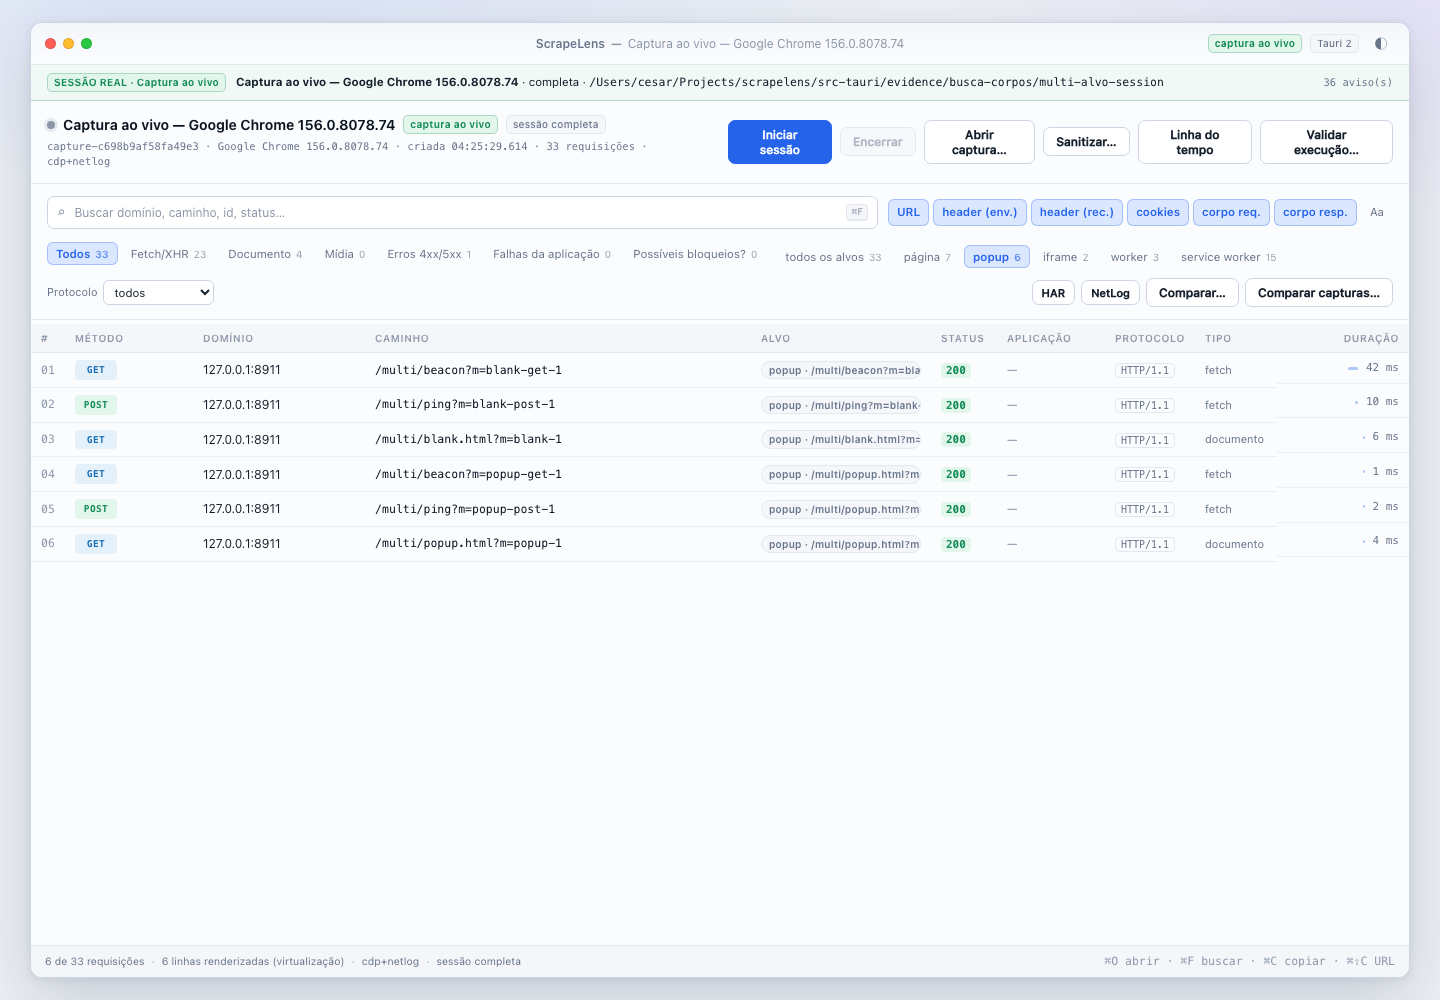
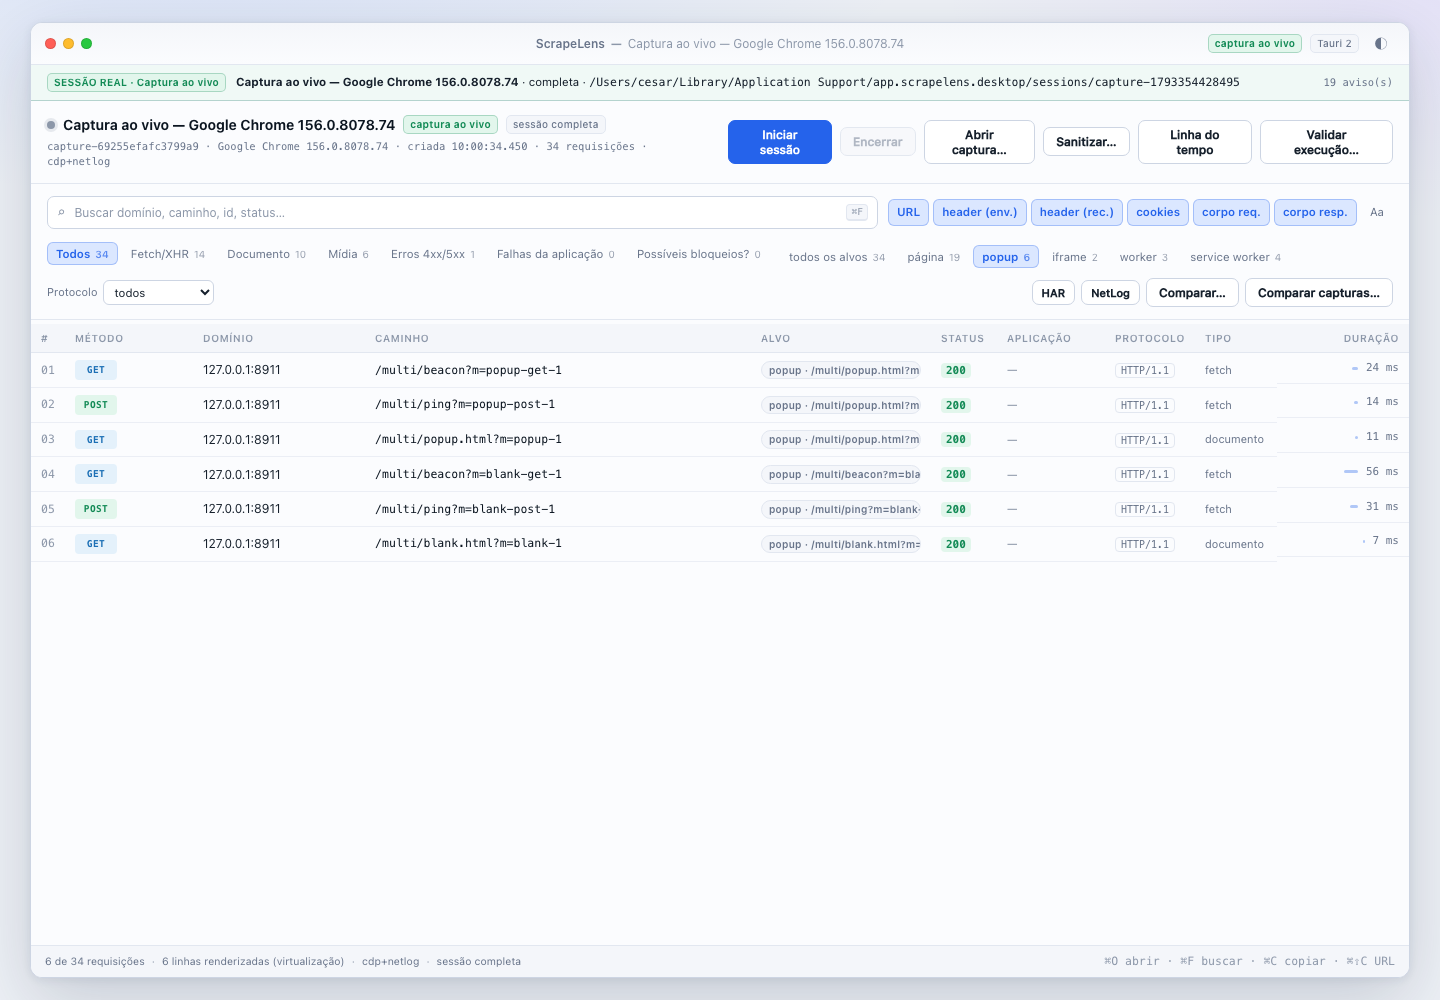
build(app): final bundle at HEAD b70aa64 (round 10 multi-target)
Records the SHA-256 after codesign and updates screenshots 42/44/47 of the live /multi/ capture (single SW, ambiguous, no false 'attached'; old session without Target).

diff --git a/src-tauri/EMPACOTAMENTO.md b/src-tauri/EMPACOTAMENTO.md
@@ -9,12 +9,12 @@ mesmas condições.
 | Item | Valor |
 |---|---|
 | Repositório | `/Users/cesar/Projects/scrapelens` |
-| Commit do app no momento do build | `881fa0d` (HEAD de origem; `test(aceite): duplicata de service worker contada por targetId`) |
+| Commit do app no momento do build | `8cfe828` (HEAD de origem; `fix(capture): primeira sessão primária sem drop CDP no timeout`) |
 | Commits de exportação incluídos | `eaf5471` (shell Tauri), `0a6e696` (UI), `0446f18`/`12457cd` (formatação), `3a3c676` (ajuste da prévia) |
 | Contrato da rodada | `4c97bc9` (`docs/07-exportacao-ui.md`); multi-alvo `docs/14-captura-multi-alvo.md` + UI `9a06463` |
-| Core | path `scrapelens-core`; inclui `df421cf` (alvo/sessionId, Capture.targetSetupTimeout) |
-| Data do build | 2026-10-30 ~03:05 (UTC−03) |
-| Working tree | limpo no build (src-tauri/app/core commitados em `881fa0d`); evidência `46-multi-alvo-bundle.png` commitada à parte |
+| Core | path `scrapelens-core`; inclui `df421cf`/`7892303` (alvo sem sessionId, `cdp.target_setup_timeout`, link SW ambíguo) |
+| Data do build | 2026-10-30 ~06:38 (UTC−03) |
+| Working tree | limpo no build em `8cfe828`; prints 42/44/45/47 atualizados após captura ao vivo |
 
 Não há sidecar, processo auxiliar nem runtime Node/Python no produto.
 
@@ -26,7 +26,7 @@ cd app && npm install                     # uma vez
 cd ../app && npx tsc --noEmit             # typecheck do frontend — sem saída
 cd ../app && npm run build                # bundle Vite — 516 kB (gzip 102 kB)
 cd ../core && cargo test                  # 55 passam, 1 ignorado
-cd ../src-tauri && cargo test             # 48 passam, 8 ignorados; 0 falhas
+cd ../src-tauri && cargo test             # 49 passam, 8 ignorados; 0 falhas
 cd ../src-tauri && cargo clippy --all-targets
 cd .. && ./app/node_modules/.bin/tauri build --bundles app
 
@@ -46,15 +46,15 @@ Ferramentas usadas: rustc 1.98.1, Node 26.8.1, macOS 26.5.2 (arm64).
 | Bundle | `src-tauri/target/release/bundle/macos/ScrapeLens.app` |
 | Executável | `ScrapeLens.app/Contents/MacOS/scrapelens` |
 | Arquitetura | `Mach-O 64-bit executable arm64`, thin (sem universal binary) |
-| Tamanho do bundle | 16.868 KiB (~16,5 MiB, `du -sk`) |
-| Tamanho do executável | 16.516.976 bytes |
[1 lines of base64/hex data omitted]
+| Tamanho do bundle | 16.856 KiB (~16,5 MiB, `du -sk`) |
+| Tamanho do executável | 16.502.896 bytes |
[1 lines of base64/hex data omitted]
 | Identificador | `app.scrapelens.desktop` |
 | Assinatura | ad-hoc (`flags=0x2(adhoc)`, `TeamIdentifier=not set`) |
 | `codesign --verify --deep --strict` | exit 0 (valid on disk, satisfaz o Designated Requirement) |
 | `spctl -a` | rejeitado — esperado: sem Developer ID e sem notarização |
 
-Rodada 10 (HEAD de origem 881fa0d, 2026-10-30; bundle com captura multi-alvo d60c1ae+, UI Alvo `9a06463`, aceite das Testes; captura ao vivo `/multi/` pelo `.app` com coluna Alvo e filtro de alvos; evidência `evidence/busca-corpos/46-multi-alvo-bundle.png`; hash anterior `d1136cbb…`). Antes: rodada 9, onda B, 3ª vez (HEAD de origem 7410fa4, 2026-10-29; bundle com `plan.parameters` isento só com plano verificado — versão atual, hash e alvo conferidos; correção só de core, traces e tela sem mudança; hash anterior `a4fe000a…`). Antes: rodada 9, onda B, 2ª vez (HEAD de origem 39410bf, 2026-10-29; bundle recompilado com a isenção de `parameters` restrita ao par (name, part) do plano — correção só de core, traces e tela sem mudança; hash anterior `860c2008…`). Antes: rodada 9, onda B (HEAD de origem 31bcaa9, 2026-10-29; plan.version 2 no trace, traces ok/403/incompleta regenerados contra o detran-sim e validação sem avisos espúrios na trace fiel; inclui o cleanup_on_start de 4a81cb0 e o plan.parameters de d83d620; hash anterior `bdce5796…`). Antes: rodada 9, 3ª vez (HEAD de origem a37cd60, 2026-10-29; temporária do trace com guardar/descartar, limite de 64 MiB, vereditos novos do validate com plan.hash do core; hash anterior `0b49ba0c…`). Antes: rodada 9, 2ª vez (HEAD de origem 2a5c533, 2026-10-29; validate com adaptador e classe "parâmetro do usuário"; hash anterior `48e1ab6d…`). Antes: rodada 9 (HEAD de origem 744df02, 2026-10-29; linha do tempo, "Validar execução…" com import-trace em pasta nova e validate; hash anterior `bda06a2d…`). Antes: build final que encerra a rodada 8 (HEAD de origem dc14ac3, 2026-10-29; estrito como padrão nas partes do adaptador; opção avançada "partes tolerantes" (`lenient_parts`) no script de priming, desligada por padrão; hash anterior `0eb5632a…`). Antes: build final da rodada 8, 2ª vez (HEAD de origem c07b514, 2026-10-29; inclui b4511fb e c07b514 da Captura; hash anterior `bee5f6d6…`). Antes: build final da rodada 8 (HEAD de origem 5d2c6e6, 2026-10-29; inclui 391db16, 5d2c6e6 da Captura, 3ba9486 do Core e o corte de partes da visão do adaptador; hash anterior `53009655…`). Antes: rebuild final da rodada 8 (HEAD de origem b0ce0f0, 2026-10-29; inclui limites da gramática da Captura, core c61d407 e o limite por campo da visão do adaptador; hash anterior `9aec2199…`). Antes: rebuild da rodada 8 (HEAD de origem aab8559, 2026-10-29; adaptador `natural-ajax` por dependência de path em origins/chain/compare/priming, visão estruturada e aba "Script de priming"; hash anterior `6e301e70…`). Antes: rebuild final (HEAD de origem 4b16b0e, 2026-10-29; inclui cf015b2 initiator do CDP e 6a85676 detectores do priming; hash anterior `1a097cd0…`). Antes: rebuild 7e (leitura de `assess-rules.json` só como arquivo regular sem symlink, até 256 KiB, erro de parse sem eco; hash anterior `56514c8b…`). Antes: rebuild 7d (avisos de `AssessRules::warnings()` devolvidos por `assess_session` e mostrados na lista e na aba Aplicação; hash anterior `0dba0476…`). Antes: rebuild 7c (filtros separados "Falhas da aplicação" = app-error e "Possíveis bloqueios?" = blocked?, combináveis; hash anterior `aa066f1a…`). Antes: rebuild 7b-2 (`counts` do assess com `VerdictKind::count_key()`, chaves kebab-case iguais ao `verdictKind`; hash anterior `83d67718…`). Antes: rebuild do ajuste 7b (verdict `not-assessed` neutro; hash anterior `0f6d04bf…`). Antes: rebuild da onda 7b (comando `assess_session`, coluna/filtro/aba "Aplicação", veredito na cadeia e no compare; hash anterior `4f7ca2aa…`). Antes: rebuild com frames auxiliares e iniciador (hash anterior `1697321d…`). Antes: rebuild da onda 6b (controle HTML, contexto estático, páginas de contexto, avisos de HAR sem cookies, compare por rodadas com opções, sanitização de negócio; hash anterior `f777988f…`). Antes: rebuild da dica de reordenação ligada a `SessionComparison.reordered` (hash anterior `21824159…`). Antes: rebuild do ajuste de layout do compare (chips quebram linha; dica de reordenação opcional); hash anterior `ac7213b2…`. Antes: rebuild com os rótulos do core (possível origem) e fixtures regeneradas; hash anterior `31ec27c3…`. Antes: rebuild das correções da revisão da rodada 5 (possível origem, confiança por passo, comparação paginada, caminhos canônicos, partsCounts; hash anterior `c1783a57…`). Antes: rebuild da onda 5b (aba Origem, cadeia de priming, comparação A × B, exportação com origens anotadas; hash anterior `2f08150d…`). Antes: rebuild do acabamento da rodada 4 (legenda de realce só quando há tracejado, nota discreta para `chrome-decoded`, aviso para `charset:*`/`lossy-postData`); hash anterior `0e2754f4…`. Antes: rebuild com busca preguiçosa do core (LazySession + search_lazy), realce sólido/tracejado e texto da fixture sintética; hash anterior `f9c0acec…`. Antes: rebuild das correções da revisão 4b (rótulos de origem, realce pelo intervalo do core, cache do bundle de busca, recusa de symlink em anexos, `transformed`; hash anterior `56ee754b…`). Antes: rebuild da onda 4b (busca no payload e painel de corpos: commands `search_session` e `read_body`, UI; 28+2 ignorados em src-tauri, 16/16 em tests/exportacao, `npm run test:adapter` ok; evidência em `evidence/busca-corpos/`). Hash anterior `9c04b98b…` substituído. Histórico: rebuild de 0d4dbab (`fix(app)`: adapter tolera campos omitidos que o core aceita via serde default; teste `npm run test:adapter` com a fixture mínima; 15+1 ignorado Tauri, 16/16 regressões tests/exportacao). Hash anterior `5934556c…` (16015a1) substituído. Antes: rebuild com validação de todos os ancestrais do destino (F1/F2): o hash acima é deste build. O SHA-256 é do executável **após** o re-sign ad-hoc. Um `tauri build` limpo
+Rodada 10 final (HEAD de origem 8cfe828, 2026-10-30; Captura 1716d39–8cfe828 + Core df421cf/7892303; SW sem cópias na lista, sw-intercept ligado como ambígua, Limites sem “não anexou” falso; sessão antiga sem sessionId sem coluna Alvo; prints 42/44/47; hash anterior `77cf7355…`). Antes: rodada 10 (HEAD de origem 881fa0d, 2026-10-30; bundle com captura multi-alvo d60c1ae+, UI Alvo `9a06463`, aceite das Testes; captura ao vivo `/multi/` pelo `.app` com coluna Alvo e filtro de alvos; evidência `evidence/busca-corpos/46-multi-alvo-bundle.png`; hash anterior `d1136cbb…`). Antes: rodada 9, onda B, 3ª vez (HEAD de origem 7410fa4, 2026-10-29; bundle com `plan.parameters` isento só com plano verificado — versão atual, hash e alvo conferidos; correção só de core, traces e tela sem mudança; hash anterior `a4fe000a…`). Antes: rodada 9, onda B, 2ª vez (HEAD de origem 39410bf, 2026-10-29; bundle recompilado com a isenção de `parameters` restrita ao par (name, part) do plano — correção só de core, traces e tela sem mudança; hash anterior `860c2008…`). Antes: rodada 9, onda B (HEAD de origem 31bcaa9, 2026-10-29; plan.version 2 no trace, traces ok/403/incompleta regenerados contra o detran-sim e validação sem avisos espúrios na trace fiel; inclui o cleanup_on_start de 4a81cb0 e o plan.parameters de d83d620; hash anterior `bdce5796…`). Antes: rodada 9, 3ª vez (HEAD de origem a37cd60, 2026-10-29; temporária do trace com guardar/descartar, limite de 64 MiB, vereditos novos do validate com plan.hash do core; hash anterior `0b49ba0c…`). Antes: rodada 9, 2ª vez (HEAD de origem 2a5c533, 2026-10-29; validate com adaptador e classe "parâmetro do usuário"; hash anterior `48e1ab6d…`). Antes: rodada 9 (HEAD de origem 744df02, 2026-10-29; linha do tempo, "Validar execução…" com import-trace em pasta nova e validate; hash anterior `bda06a2d…`). Antes: build final que encerra a rodada 8 (HEAD de origem dc14ac3, 2026-10-29; estrito como padrão nas partes do adaptador; opção avançada "partes tolerantes" (`lenient_parts`) no script de priming, desligada por padrão; hash anterior `0eb5632a…`). Antes: build final da rodada 8, 2ª vez (HEAD de origem c07b514, 2026-10-29; inclui b4511fb e c07b514 da Captura; hash anterior `bee5f6d6…`). Antes: build final da rodada 8 (HEAD de origem 5d2c6e6, 2026-10-29; inclui 391db16, 5d2c6e6 da Captura, 3ba9486 do Core e o corte de partes da visão do adaptador; hash anterior `53009655…`). Antes: rebuild final da rodada 8 (HEAD de origem b0ce0f0, 2026-10-29; inclui limites da gramática da Captura, core c61d407 e o limite por campo da visão do adaptador; hash anterior `9aec2199…`). Antes: rebuild da rodada 8 (HEAD de origem aab8559, 2026-10-29; adaptador `natural-ajax` por dependência de path em origins/chain/compare/priming, visão estruturada e aba "Script de priming"; hash anterior `6e301e70…`). Antes: rebuild final (HEAD de origem 4b16b0e, 2026-10-29; inclui cf015b2 initiator do CDP e 6a85676 detectores do priming; hash anterior `1a097cd0…`). Antes: rebuild 7e (leitura de `assess-rules.json` só como arquivo regular sem symlink, até 256 KiB, erro de parse sem eco; hash anterior `56514c8b…`). Antes: rebuild 7d (avisos de `AssessRules::warnings()` devolvidos por `assess_session` e mostrados na lista e na aba Aplicação; hash anterior `0dba0476…`). Antes: rebuild 7c (filtros separados "Falhas da aplicação" = app-error e "Possíveis bloqueios?" = blocked?, combináveis; hash anterior `aa066f1a…`). Antes: rebuild 7b-2 (`counts` do assess com `VerdictKind::count_key()`, chaves kebab-case iguais ao `verdictKind`; hash anterior `83d67718…`). Antes: rebuild do ajuste 7b (verdict `not-assessed` neutro; hash anterior `0f6d04bf…`). Antes: rebuild da onda 7b (comando `assess_session`, coluna/filtro/aba "Aplicação", veredito na cadeia e no compare; hash anterior `4f7ca2aa…`). Antes: rebuild com frames auxiliares e iniciador (hash anterior `1697321d…`). Antes: rebuild da onda 6b (controle HTML, contexto estático, páginas de contexto, avisos de HAR sem cookies, compare por rodadas com opções, sanitização de negócio; hash anterior `f777988f…`). Antes: rebuild da dica de reordenação ligada a `SessionComparison.reordered` (hash anterior `21824159…`). Antes: rebuild do ajuste de layout do compare (chips quebram linha; dica de reordenação opcional); hash anterior `ac7213b2…`. Antes: rebuild com os rótulos do core (possível origem) e fixtures regeneradas; hash anterior `31ec27c3…`. Antes: rebuild das correções da revisão da rodada 5 (possível origem, confiança por passo, comparação paginada, caminhos canônicos, partsCounts; hash anterior `c1783a57…`). Antes: rebuild da onda 5b (aba Origem, cadeia de priming, comparação A × B, exportação com origens anotadas; hash anterior `2f08150d…`). Antes: rebuild do acabamento da rodada 4 (legenda de realce só quando há tracejado, nota discreta para `chrome-decoded`, aviso para `charset:*`/`lossy-postData`); hash anterior `0e2754f4…`. Antes: rebuild com busca preguiçosa do core (LazySession + search_lazy), realce sólido/tracejado e texto da fixture sintética; hash anterior `f9c0acec…`. Antes: rebuild das correções da revisão 4b (rótulos de origem, realce pelo intervalo do core, cache do bundle de busca, recusa de symlink em anexos, `transformed`; hash anterior `56ee754b…`). Antes: rebuild da onda 4b (busca no payload e painel de corpos: commands `search_session` e `read_body`, UI; 28+2 ignorados em src-tauri, 16/16 em tests/exportacao, `npm run test:adapter` ok; evidência em `evidence/busca-corpos/`). Hash anterior `9c04b98b…` substituído. Histórico: rebuild de 0d4dbab (`fix(app)`: adapter tolera campos omitidos que o core aceita via serde default; teste `npm run test:adapter` com a fixture mínima; 15+1 ignorado Tauri, 16/16 regressões tests/exportacao). Hash anterior `5934556c…` (16015a1) substituído. Antes: rebuild com validação de todos os ancestrais do destino (F1/F2): o hash acima é deste build. O SHA-256 é do executável **após** o re-sign ad-hoc. Um `tauri build` limpo
 produz um binário byte-diferente (o linker assina antes do bundle), por isso o
 hash identifica este artefato, não a saída de qualquer build. O build anterior
 desta mesma rodada, sem o ajuste `3a3c676`, tinha
